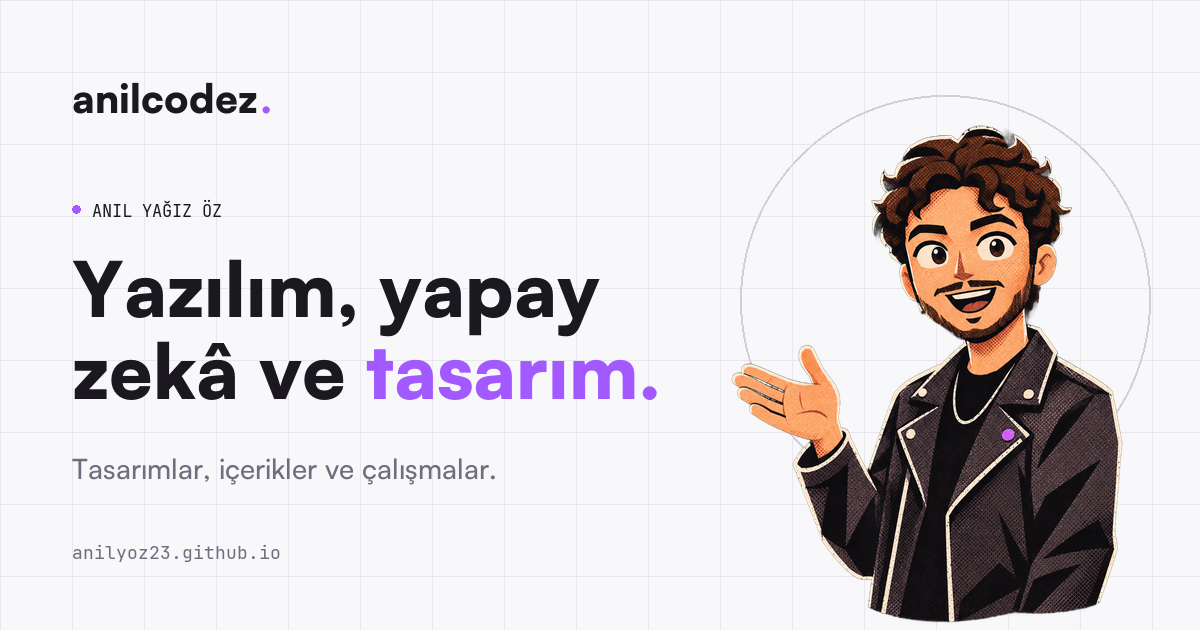
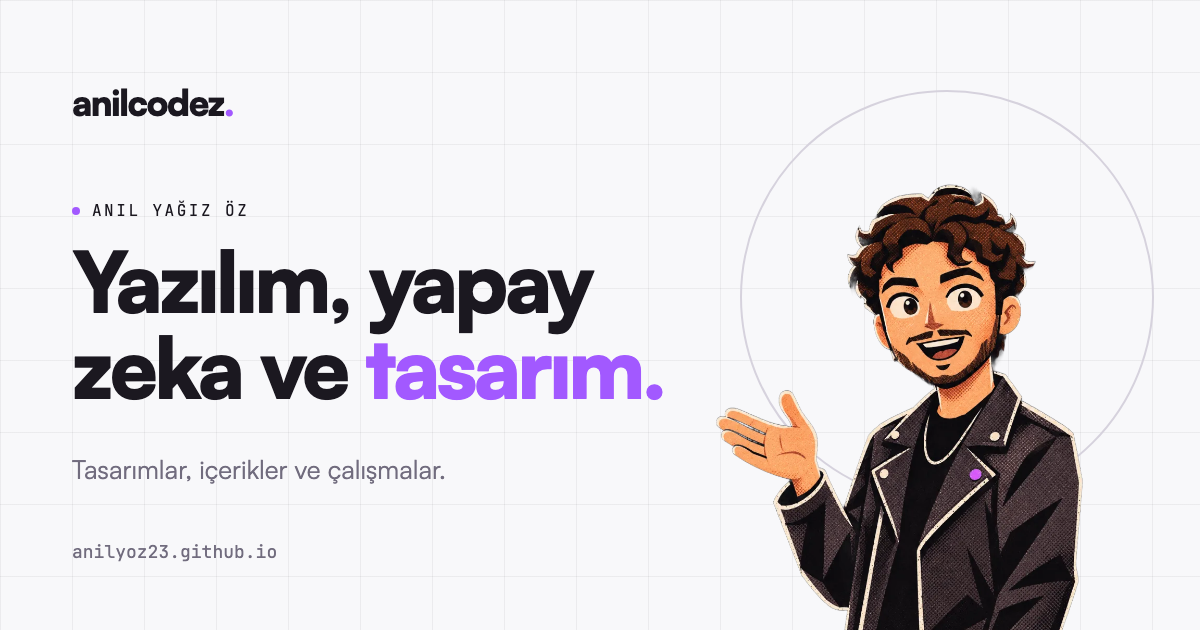
Write "yapay zeka" without circumflex across the site
Also re-render the share cover image with the new spelling.

diff --git a/index.html b/index.html
@@ -2,8 +2,8 @@
 <html lang="tr" data-theme="light">
 <head>
 <meta charset="utf-8"><meta name="viewport" content="width=device-width,initial-scale=1">
-<title>anilcodez — Yazılım, yapay zekâ ve tasarım</title>
-<meta name="description" content="Ben Anıl. Bilgisayar mühendisliği okuyorum; yapay zekâ araçlarını kurcalıyor, bir şeyler geliştiriyor ve öğrendiklerimi çizerek anlatıyorum.">
+<title>anilcodez — Yazılım, yapay zeka ve tasarım</title>
+<meta name="description" content="Ben Anıl. Bilgisayar mühendisliği okuyorum; yapay zeka araçlarını kurcalıyor, bir şeyler geliştiriyor ve öğrendiklerimi çizerek anlatıyorum.">
 <meta name="author" content="Anıl Yağız Öz">
 <meta name="color-scheme" content="light dark">
 <link rel="canonical" href="https://anilyoz23.github.io/">
@@ -17,17 +17,17 @@
 <meta property="og:locale" content="tr_TR">
 <meta property="og:site_name" content="anilcodez">
 <meta property="og:url" content="https://anilyoz23.github.io/">
-<meta property="og:title" content="anilcodez — Yazılım, yapay zekâ ve tasarım">
-<meta property="og:description" content="Ben Anıl. Bilgisayar mühendisliği okuyorum; yapay zekâ araçlarını kurcalıyor, bir şeyler geliştiriyor ve öğrendiklerimi çizerek anlatıyorum.">
-<meta property="og:image" content="https://anilyoz23.github.io/assets/og-cover.png">
+<meta property="og:title" content="anilcodez — Yazılım, yapay zeka ve tasarım">
+<meta property="og:description" content="Ben Anıl. Bilgisayar mühendisliği okuyorum; yapay zeka araçlarını kurcalıyor, bir şeyler geliştiriyor ve öğrendiklerimi çizerek anlatıyorum.">
+<meta property="og:image" content="https://anilyoz23.github.io/assets/og-cover.png?v=2">
 <meta property="og:image:width" content="1200">
 <meta property="og:image:height" content="630">
-<meta property="og:image:alt" content="anilcodez: Yazılım, yapay zekâ ve tasarım. Anıl'ın çizim karakteri el sallıyor.">
+<meta property="og:image:alt" content="anilcodez: Yazılım, yapay zeka ve tasarım. Anıl'ın çizim karakteri el sallıyor.">
 <meta name="twitter:card" content="summary_large_image">
-<meta name="twitter:title" content="anilcodez — Yazılım, yapay zekâ ve tasarım">
-<meta name="twitter:description" content="Yapay zekâ araçlarını kurcalıyor, bir şeyler geliştiriyor ve öğrendiklerimi çizerek anlatıyorum.">
-<meta name="twitter:image" content="https://anilyoz23.github.io/assets/og-cover.png">
-<script type="application/ld+json">{"@context":"https://schema.org","@type":"Person","name":"Anıl Yağız Öz","alternateName":"anilcodez","url":"https://anilyoz23.github.io/","image":"https://anilyoz23.github.io/assets/og-cover.png","email":"mailto:anilcodez@gmail.com","description":"Bilgisayar mühendisliği öğrencisi; yapay zekâ, yazılım ve görsel anlatım üzerine içerik üretiyor.","knowsAbout":["Yapay zekâ","Yazılım","Tasarım"],"sameAs":["https://www.instagram.com/anilcodez/","https://www.linkedin.com/in/anilyoz","https://github.com/anilyoz23"]}</script>
+<meta name="twitter:title" content="anilcodez — Yazılım, yapay zeka ve tasarım">
+<meta name="twitter:description" content="Yapay zeka araçlarını kurcalıyor, bir şeyler geliştiriyor ve öğrendiklerimi çizerek anlatıyorum.">
+<meta name="twitter:image" content="https://anilyoz23.github.io/assets/og-cover.png?v=2">
+<script type="application/ld+json">{"@context":"https://schema.org","@type":"Person","name":"Anıl Yağız Öz","alternateName":"anilcodez","url":"https://anilyoz23.github.io/","image":"https://anilyoz23.github.io/assets/og-cover.png?v=2","email":"mailto:anilcodez@gmail.com","description":"Bilgisayar mühendisliği öğrencisi; yapay zeka, yazılım ve görsel anlatım üzerine içerik üretiyor.","knowsAbout":["Yapay zeka","Yazılım","Tasarım"],"sameAs":["https://www.instagram.com/anilcodez/","https://www.linkedin.com/in/anilyoz","https://github.com/anilyoz23"]}</script>
 <script>(function(){var d=matchMedia('(prefers-color-scheme: dark)').matches?'dark':'light',t=null;try{t=JSON.parse(localStorage.getItem('anil-theme-v2')||'null')}catch(e){}document.documentElement.dataset.theme=t&&t.system===d&&(t.theme==='dark'||t.theme==='light')?t.theme:d})()</script>
 <style>
 @font-face{font-family:Satoshi;src:url('assets/Satoshi-Regular.woff2') format('woff2');font-weight:400;font-display:swap}@font-face{font-family:Satoshi;src:url('assets/Satoshi-Bold.woff2') format('woff2');font-weight:700;font-display:swap}@font-face{font-family:Satoshi;src:url('assets/Satoshi-Black.woff2') format('woff2');font-weight:900;font-display:swap}@font-face{font-family:Mono;src:url('assets/JetBrainsMono-Regular.woff2') format('woff2');font-display:swap;font-display:swap}
@@ -42,11 +42,11 @@
 <body>
 <header><nav class="wrap" aria-label="Ana menü"><a class="logo" href="#">anilcodez<span>.</span></a><div class="navlinks"><a href="#calismalar">Çalışmalar</a><a href="#hakkimda">Hakkımda</a><a class="contact" href="#iletisim">Merhaba de ↗</a><button class="theme" id="theme" aria-label="Koyu temaya geç" aria-pressed="false">☾</button></div></nav></header>
 <main>
-<div class="hero"><div class="wrap hero-inner"><div><div class="eyebrow">Anıl Yağız Öz</div><h1>Yazılım, yapay&nbsp;zekâ<br>ve <em>tasarım.</em></h1><p class="intro">Ben Anıl. Yapay zekâ araçlarını kurcalıyor, kendimce bir şeyler geliştiriyorum. Öğrendiklerimi çizerek anlatıyor, burada paylaşıyorum.</p><div class="actions"><a class="pill" href="#calismalar">Çalışmaları keşfet <span class="arrow">↗</span></a><a href="https://www.instagram.com/anilcodez/" target="_blank" rel="noopener noreferrer">Instagram ↗</a></div></div><div class="scene"><div class="orbit" aria-hidden="true"></div><img class="portrait" src="assets/anil.webp" alt="Anıl'ın risograf tarzındaki çizimi, eliyle çalışmalarını gösteriyor" width="768" height="1152" fetchpriority="high"></div></div></div>
-<div class="signature-bar"><div class="wrap"><span class="label">BENİM DÜNYAM</span><div class="topics"><span>Yazılım</span><i>✳</i><span>Yapay zekâ</span><i>✳</i><span>Görsel hikâyeler</span><i>✳</i><span>Tasarım</span></div><span class="label">AŞAĞIDA DAHASI VAR ↓</span></div></div>
-<section class="wrap content" id="calismalar"><div class="section-head"><div><div class="eyebrow">Ürettiklerimden bir kesit</div><h2>Fikirden ekrana.</h2></div><p>Keşfettiğim araçlar, çizerek anlattığım fikirler ve paylaşmaya değer bulduklarım.</p></div><div class="projects"><article class="project"><div class="art"><img class="light-art" src="assets/radar-light.webp" alt="Risograf radar illüstrasyonu" loading="lazy"><img class="dark-art" src="assets/radar.webp" alt="Risograf radar illüstrasyonu" loading="lazy"></div><div class="project-info"><small>İÇERİK SERİSİ · KARİYER</small><h3>Fırsat Radarı</h3><p>Öğrenciler ve yeni mezunlar için staj, eğitim ve etkinlik fırsatlarını bir araya getirdiğim seri.</p><a href="https://silver-apple-d79.notion.site/F-rsat-Radar-418eb61a943c80b6bfa8fbec1435c614" target="_blank" rel="noopener noreferrer">Fırsat listesine git ↗</a></div></article><article class="project"><div class="art"><img class="light-art" src="assets/terminal-light.webp" alt="Risograf bilgisayar illüstrasyonu" loading="lazy"><img class="dark-art" src="assets/terminal.webp" alt="Risograf bilgisayar illüstrasyonu" loading="lazy"></div><div class="project-info"><small>YAZILIM · YAPAY ZEKÂ</small><h3>Teknolojiyi çizerek anlatmak</h3><p>Karmaşık konuları sadeleştiren kısa içerikler. Biraz kod, biraz çizim, bolca keşif.</p><a href="https://www.instagram.com/anilcodez/" target="_blank" rel="noopener noreferrer">İçeriklere göz at ↗</a></div></article></div><div class="about" id="hakkimda"><div><div class="eyebrow">Hakkımda</div><h2>Öğrenirken<br>paylaşmayı seviyorum.</h2></div><p>Ben Anıl, <strong>bilgisayar mühendisliği</strong> okuyorum. <strong>Yapay zekâya</strong> merakım büyük: çıkan araçları sürekli kurcalıyor, nasıl çalıştıklarını anlamaya çalışıyor ve kendimce küçük projeler geliştiriyorum. Öğrendiklerimi herkesin anlayabileceği kısa, çizimli hikâyelere dönüştürmeyi seviyorum. Burada denemelerimi, tasarımlarımı ve yol boyunca öğrendiklerimi bulacaksın.</p></div></section>
+<div class="hero"><div class="wrap hero-inner"><div><div class="eyebrow">Anıl Yağız Öz</div><h1>Yazılım, yapay&nbsp;zeka<br>ve <em>tasarım.</em></h1><p class="intro">Ben Anıl. Yapay zeka araçlarını kurcalıyor, kendimce bir şeyler geliştiriyorum. Öğrendiklerimi çizerek anlatıyor, burada paylaşıyorum.</p><div class="actions"><a class="pill" href="#calismalar">Çalışmaları keşfet <span class="arrow">↗</span></a><a href="https://www.instagram.com/anilcodez/" target="_blank" rel="noopener noreferrer">Instagram ↗</a></div></div><div class="scene"><div class="orbit" aria-hidden="true"></div><img class="portrait" src="assets/anil.webp" alt="Anıl'ın risograf tarzındaki çizimi, eliyle çalışmalarını gösteriyor" width="768" height="1152" fetchpriority="high"></div></div></div>
+<div class="signature-bar"><div class="wrap"><span class="label">BENİM DÜNYAM</span><div class="topics"><span>Yazılım</span><i>✳</i><span>Yapay zeka</span><i>✳</i><span>Görsel hikâyeler</span><i>✳</i><span>Tasarım</span></div><span class="label">AŞAĞIDA DAHASI VAR ↓</span></div></div>
+<section class="wrap content" id="calismalar"><div class="section-head"><div><div class="eyebrow">Ürettiklerimden bir kesit</div><h2>Fikirden ekrana.</h2></div><p>Keşfettiğim araçlar, çizerek anlattığım fikirler ve paylaşmaya değer bulduklarım.</p></div><div class="projects"><article class="project"><div class="art"><img class="light-art" src="assets/radar-light.webp" alt="Risograf radar illüstrasyonu" loading="lazy"><img class="dark-art" src="assets/radar.webp" alt="Risograf radar illüstrasyonu" loading="lazy"></div><div class="project-info"><small>İÇERİK SERİSİ · KARİYER</small><h3>Fırsat Radarı</h3><p>Öğrenciler ve yeni mezunlar için staj, eğitim ve etkinlik fırsatlarını bir araya getirdiğim seri.</p><a href="https://silver-apple-d79.notion.site/F-rsat-Radar-418eb61a943c80b6bfa8fbec1435c614" target="_blank" rel="noopener noreferrer">Fırsat listesine git ↗</a></div></article><article class="project"><div class="art"><img class="light-art" src="assets/terminal-light.webp" alt="Risograf bilgisayar illüstrasyonu" loading="lazy"><img class="dark-art" src="assets/terminal.webp" alt="Risograf bilgisayar illüstrasyonu" loading="lazy"></div><div class="project-info"><small>YAZILIM · YAPAY ZEKA</small><h3>Teknolojiyi çizerek anlatmak</h3><p>Karmaşık konuları sadeleştiren kısa içerikler. Biraz kod, biraz çizim, bolca keşif.</p><a href="https://www.instagram.com/anilcodez/" target="_blank" rel="noopener noreferrer">İçeriklere göz at ↗</a></div></article></div><div class="about" id="hakkimda"><div><div class="eyebrow">Hakkımda</div><h2>Öğrenirken<br>paylaşmayı seviyorum.</h2></div><p>Ben Anıl, <strong>bilgisayar mühendisliği</strong> okuyorum. <strong>Yapay zekaya</strong> merakım büyük: çıkan araçları sürekli kurcalıyor, nasıl çalıştıklarını anlamaya çalışıyor ve kendimce küçük projeler geliştiriyorum. Öğrendiklerimi herkesin anlayabileceği kısa, çizimli hikâyelere dönüştürmeyi seviyorum. Burada denemelerimi, tasarımlarımı ve yol boyunca öğrendiklerimi bulacaksın.</p></div></section>
 <section class="end" id="iletisim"><div class="wrap end-row"><div><h2>Bir fikrin mi var?</h2><p>Tasarım, teknoloji ya da sadece bir merhaba.</p></div><div class="contact-links"><a class="pill" href="mailto:anilcodez@gmail.com">anilcodez@gmail.com <span class="arrow">↗</span></a><nav class="socials" aria-label="Sosyal hesaplar"><a href="https://www.instagram.com/anilcodez/" target="_blank" rel="me noopener noreferrer">Instagram ↗</a><a href="https://www.linkedin.com/in/anilyoz" target="_blank" rel="me noopener noreferrer">LinkedIn ↗</a><a href="https://github.com/anilyoz23" target="_blank" rel="me noopener noreferrer">GitHub ↗</a></nav></div></div></section>
-</main><footer><div class="wrap footer-row"><span>© 2026 anilcodez</span><span>Yazılım · Yapay zekâ · Tasarım</span><a href="#">Yukarı dön ↑</a></div></footer>
+</main><footer><div class="wrap footer-row"><span>© 2026 anilcodez</span><span>Yazılım · Yapay zeka · Tasarım</span><a href="#">Yukarı dön ↑</a></div></footer>
 <script>
 const toggle = document.getElementById('theme');
 function setTheme(theme) {

diff --git a/404.html b/404.html
@@ -56,7 +56,7 @@ footer{border-top:1px solid var(--line);padding:22px 24px;text-align:center;font
   <button class="ghost" id="again" type="button">↻ Yanıtı yeniden oluştur</button>
  </div>
 </div></main>
-<footer>© 2026 anilcodez · Yazılım · Yapay zekâ · Tasarım</footer>
+<footer>© 2026 anilcodez · Yazılım · Yapay zeka · Tasarım</footer>
 <script>
 const replies = [
  'Üzgünüm, bu konuda yardımcı olamıyorum. Aradığın sayfa hiç var olmamış ya da başka bir yere taşınmış olabilir.',
